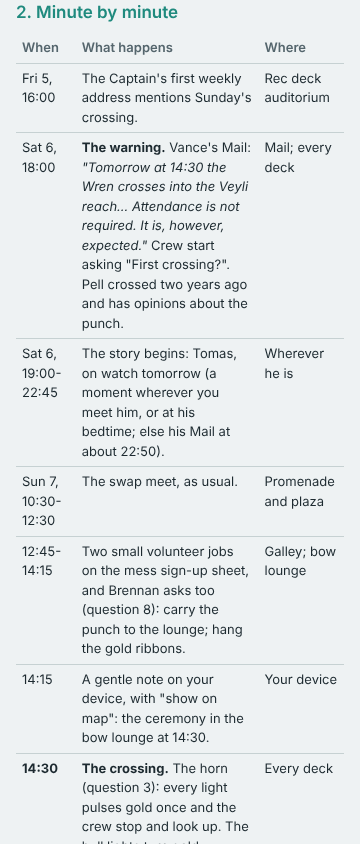
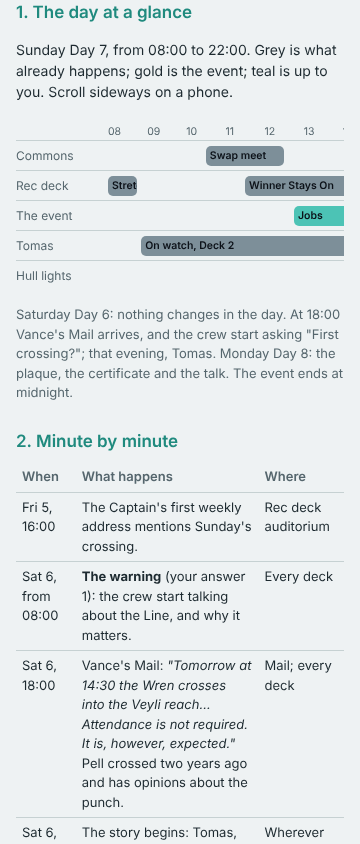
Crossing the Line plan v2.2: the user's answers (02:33: q1 b, Saturday-morning talk, warning [0, 480], Vance's Mail still 18:00; q2-q8 a) marked decided; new section 'Why the crossing matters' (A guests in someone else's sky, recommended; B the edge of the map; C just a custom), where the game says 
Claude-Session: https://claude.ai/code/session_01GpiqZ9jCYbS9XTNPF8adHr

diff --git a/plans/event-line-plan.html b/plans/event-line-plan.html
@@ -66,7 +66,7 @@ blockquote{margin:6px 0;padding:6px 12px;border-left:3px solid var(--gold);font-
 <main>
 <button class="theme" id="theme" aria-label="Switch light or dark">Light / dark</button>
 <h1>Crossing the Line: the plan</h1>
-<div class="sub">Event planner EP2, 2026-10-21, version 2.1: the ceremony moves to the bow lounge, as you asked. It folds in the adversarial reviewer's 12 fixes (ER2) and reworks the story you asked for. Branch <code>claude/event-plan-line</code>, from build 0.64.6. Planning only: the game hasn't changed. The first ship-wide event in the story, built after the ion storm. Your answers go in section 8.</div>
+<div class="sub">Event planner EP2, 2026-10-21, version 2.2: your answers are in, and a new section explains why the crossing matters. The ceremony is in the bow lounge, as you asked. It folds in the adversarial reviewer's 12 fixes (ER2) and reworks the story you asked for. Branch <code>claude/event-plan-line</code>, from build 0.64.6. Planning only: the game hasn't changed. The first ship-wide event in the story, built after the ion storm. Your answers go in section 8.</div>
 
 <div class="card key">
 <b>In short</b>
@@ -77,7 +77,7 @@ blockquote{margin:6px 0;padding:6px 12px;border-left:3px solid var(--gold);font-
 <li><b>The story:</b> Tomas, your bunkmate, is the other newest hand, and he's on watch through the whole crossing. He misses his own Line. You can take him a mug, and that night the crew give him his crossing on Lap of the Wren.</li>
 <li><b>18:00-19:15, the mess:</b> the Line supper takes the Sunday table's place: the dish the crew voted for, plus Brennan's pudding. Up to about 60.</li>
 <li><b>Monday:</b> the plaque with your words, your Line certificate on your shelf, and the crew retelling it all.</li>
-<li><b>About 6 build turns</b>, switched off until you've reviewed it. <b>8 questions</b> for you, each with a recommended answer (section 8). You've already chosen the story.</li>
+<li><b>About 6 build turns</b>, switched off until you've reviewed it. You've answered every question; <b>one new question</b> (number 10, section 8) asks what the crossing means.</li>
 </ul>
 </div>
 
@@ -142,6 +142,38 @@ Then the punch. If you helped carry it up, Brennan has already told you one of i
 <p><b>You chose A</b> (in chat, 01:30). <b>Why it was recommended:</b> it's true to the ship's own rota, a friend wants something he can't have, your answer goes on the plaque in front of everyone, it pays off the same evening, and it still works if you miss the ceremony.</p>
 <p class="sub"><b>Crew react within about 5 ship minutes of the horn,</b> so the first things they say are about the gold pulse, the gold windows and the walk to the lounge (<i>"Did you feel that? The whole deck went gold."</i>). Talk about the punch and your answer waits until the ceremony is over at 15:15.</p>
 
+<h2>Why the crossing matters (new)</h2>
+<p>You asked us to explain why crossing the Line matters. What's already true: the Wren is an unarmed Concord survey ship on a long tour of a frontier shared with the Veyli. Tavessa, dead ahead, is a star cluster the Veyli named, and the Wren was last in the reach two years ago, on a quiet charting run.</p>
+<details open>
+<summary>A. Guests in someone else's sky (recommended)</summary>
+<ul>
+<li><b>What the Line is:</b> where the Concord's charts end and the Veyli reach begins. Past it, every star already has a Veyli name, the Wren travels by the Veyli's leave, and the nearest Concord port is a long way behind.</li>
+<li><b>Why ships mark it:</b> out there you can't call for help and expect it soon, and you're the Concord's face to whoever you meet. So the old oath is a promise to each other: <i>"we did not go alone... we bring each other home."</i></li>
+<li><b>What it means for the Wren:</b> the real work of the tour starts here. Survey charts Tavessa, and everyone aboard, first-timer or not, is a long way from home together.</li>
+<li><b>Why this one:</b> it explains the oath's own words, it matters to the whole crew and not just the first-timers, and it fits a peaceful ship. It also gives the later Veyli events a quiet ground without saying anything about them.</li>
+</ul>
+</details>
+<details>
+<summary>B. The edge of the map</summary>
+<ul><li>Past the Line the Concord's charts are incomplete, and Survey starts the Wren's real job. It's lighter and all about exploration, but it doesn't explain why the oath is about each other.</li></ul>
+</details>
+<details>
+<summary>C. Just an old custom</summary>
+<ul><li>Spacers mark a border the way sailors marked the equator: a rite of passage, a punch and a plaque. It's the "why" you said is missing.</li></ul>
+</details>
+<p><b>Where the game tells you</b> (with A, about 14 lines, all in places you already pass through):</p>
+<div class="scroll"><table>
+<tr><th>Where</th><th>When</th><th>What you hear</th></tr>
+<tr><td>The Captain's Friday address</td><td>Fri 16:00</td><td>Sunday we leave the Concord's charts; past the Line, the stars have other names.</td></tr>
+<tr><td>The crew's chatter</td><td>Sat from the morning</td><td><i>"Past the Line, every star's got a Veyli name already."</i> <i>"Help's a long way off out there. That's what the oath's about."</i></td></tr>
+<tr><td>Vance's Mail</td><td>Sat 18:00</td><td><i>"Beyond it, we travel by the Veyli's leave, on their charts."</i></td></tr>
+<tr><td>Tomas</td><td>Sat evening</td><td><i>"Why does it matter, anyway? It's just a line."</i> You can tell him, or admit you're not sure.</td></tr>
+<tr><td>The Captain, before the oath</td><td>Sun 14:40</td><td><i>"Past this point the stars have other names, and help is a long way off. So we make each other a promise."</i></td></tr>
+<tr><td>Your certificate and the Record</td><td>Sun 15:15</td><td><i>"Crossed into the Veyli reach, where the Wren travels as a guest."</i></td></tr>
+<tr><td>Zeke, at One week aboard</td><td>Sun 17:15</td><td><i>"Your first week, and you're already off the map. Not bad."</i></td></tr>
+</table></div>
+<p class="sub">No spoilers: nothing about the later visit, nothing about Chief Holt's past, and nothing about why the Envoy is aboard. Two small new facts ("the Concord's charts end at the Line", "the nearest port is a long way behind") go into the ship's fact list first.</p>
+
 <h2>1. The day at a glance</h2>
 <p>Sunday Day 7, from 08:00 to 22:00. Grey is what already happens; gold is the event; teal is up to you. Scroll sideways on a phone.</p>
 <div class="scroll"><div class="day" id="day"></div></div>
@@ -151,7 +183,8 @@ Then the punch. If you helped carry it up, Brennan has already told you one of i
 <div class="scroll"><table>
 <tr><th>When</th><th>What happens</th><th>Where</th></tr>
 <tr><td>Fri 5, 16:00</td><td>The Captain's first weekly address mentions Sunday's crossing.</td><td>Rec deck auditorium</td></tr>
-<tr><td>Sat 6, 18:00</td><td><b>The warning.</b> Vance's Mail: <i>"Tomorrow at 14:30 the Wren crosses into the Veyli reach... Attendance is not required. It is, however, expected."</i> Crew start asking "First crossing?". Pell crossed two years ago and has opinions about the punch.</td><td>Mail; every deck</td></tr>
+<tr><td>Sat 6, from 08:00</td><td><b>The warning</b> (your answer 1): the crew start talking about the Line, and why it matters.</td><td>Every deck</td></tr>
+<tr><td>Sat 6, 18:00</td><td>Vance's Mail: <i>"Tomorrow at 14:30 the Wren crosses into the Veyli reach... Attendance is not required. It is, however, expected."</i> Pell crossed two years ago and has opinions about the punch.</td><td>Mail; every deck</td></tr>
 <tr><td>Sat 6, 19:00-22:45</td><td>The story begins: Tomas, on watch tomorrow (a moment wherever you meet him, or at his bedtime; else his Mail at about 22:50).</td><td>Wherever he is</td></tr>
 <tr><td>Sun 7, 10:30-12:30</td><td>The swap meet, as usual.</td><td>Promenade and plaza</td></tr>
 <tr><td>12:45-14:15</td><td>Two small volunteer jobs on the mess sign-up sheet, and Brennan asks too (question 8): carry the punch to the lounge; hang the gold ribbons.</td><td>Galley; bow lounge</td></tr>
@@ -259,8 +292,19 @@ Then the punch. If you helped carry it up, Brennan has already told you one of i
 </ol>
 
 <h2>8. Your answers</h2>
-<p>Pick one option per question (the recommended one is marked), and add a comment if you like. Questions 5 and 7 are new versions, rewritten with the reviewer's true numbers.</p>
+<p>You answered questions 1-9 (thank you). One new question, number 10, follows your comment about why the crossing matters. You can still add a comment to any of them.</p>
 <form id="answers" data-collection="answers" data-doc="event-line-plan" onsubmit="return false">
+
+<div class="q" data-qid="line-q10">
+<h3>10. Why does crossing the Line matter? (new, for your comment)</h3>
+<p class="why">You asked us to explain why the crossing matters. The three meanings are in the section "Why the crossing matters" near the top. Whichever you pick, the writer adds about 14 lines in places you already pass through.</p>
+<fieldset><legend>Question 10</legend>
+<label class="opt"><input type="radio" name="line-q10" value="a"><span>A. Guests in someone else's sky: past the Line the charts and the star names are the Veyli's, the Wren travels by their leave, and help is a long way off. That's why the oath is about going together and bringing each other home<span class="recd">recommended</span></span></label>
+<label class="opt"><input type="radio" name="line-q10" value="b"><span>B. The edge of the map: past the Line the Concord's charts are incomplete, and the Wren's real survey work begins</span></label>
+<label class="opt"><input type="radio" name="line-q10" value="c"><span>C. Just an old custom, like sailors crossing the equator: a rite of passage, and nothing more</span></label>
+</fieldset>
+<label class="cl" for="line-q10-c">Comment</label><textarea id="line-q10-c" name="line-q10-comment"></textarea>
+</div>
 
 <div class="q" data-qid="line-q9">
 <h3>The story: decided</h3>
@@ -270,86 +314,49 @@ Then the punch. If you helped carry it up, Brennan has already told you one of i
 
 <div class="q" data-qid="line-q1">
 <h3>1. When does the ship start talking about it?</h3>
-<p class="why">The event's warning starts the crew's chatter ("First crossing?"). Talk isn't a task, so Saturday stays free either way.</p>
-<fieldset><legend>Question 1</legend>
-<label class="opt"><input type="radio" name="line-q1" value="a"><span>With Vance's Mail on Saturday at 18:00 (and the Captain's mention at Friday's address)<span class="recd">recommended</span></span></label>
-<label class="opt"><input type="radio" name="line-q1" value="b"><span>From Saturday morning (the Mail still at 18:00)</span></label>
-<label class="opt"><input type="radio" name="line-q1" value="c"><span>From Friday's new-hands tea (Friday 18:40)</span></label>
-</fieldset>
+<p class="why"><b>Your answer (02:33): b.</b> From Saturday morning; Vance's Mail still at 18:00</p>
 <label class="cl" for="line-q1-c">Comment</label><textarea id="line-q1-c" name="line-q1-comment"></textarea>
 </div>
 
 <div class="q" data-qid="line-q2">
 <h3>2. What do the gold hull lights look like?</h3>
-<p class="why">Today the hull lights are only words (the hull-lights evening changes nothing on screen). This is new.</p>
-<fieldset><legend>Question 2</legend>
-<label class="opt"><input type="radio" name="line-q2" value="a"><span>A warm gold in every window, and slightly warmer light indoors, 14:30-19:15<span class="recd">recommended</span></span></label>
-<label class="opt"><input type="radio" name="line-q2" value="b"><span>The windows only</span></label>
-<label class="opt"><input type="radio" name="line-q2" value="c"><span>As the first, plus gold light strips along the promenade (a few more draw calls on phones)</span></label>
-</fieldset>
+<p class="why"><b>Your answer (02:33): a.</b> A warm gold in every window, and slightly warmer light indoors, 14:30-19:15</p>
 <label class="cl" for="line-q2-c">Comment</label><textarea id="line-q2-c" name="line-q2-comment"></textarea>
 </div>
 
 <div class="q" data-qid="line-q3">
 <h3>3. The horn: the game has no sound at all</h3>
-<p class="why">So "the horn sounds on every deck" has to be something you see.</p>
-<fieldset><legend>Question 3</legend>
-<label class="opt"><input type="radio" name="line-q3" value="a"><span>A felt moment: every light pulses gold once, the crew stop and look up, and a one-line notice says the horn sounds<span class="recd">recommended</span></span></label>
-<label class="opt"><input type="radio" name="line-q3" value="b"><span>That, plus the game's first sound: one horn note (new work: a mute switch, and phones on silent)</span></label>
-<label class="opt"><input type="radio" name="line-q3" value="c"><span>Just the Captain's banner</span></label>
-</fieldset>
+<p class="why"><b>Your answer (02:33): a.</b> A felt moment: every light pulses gold once, the crew stop and look up, and a one-line notice says the horn sounds</p>
 <label class="cl" for="line-q3-c">Comment</label><textarea id="line-q3-c" name="line-q3-comment"></textarea>
 </div>
 
 <div class="q" data-qid="line-q4">
 <h3>4. The Line supper</h3>
-<p class="why">It takes the Sunday table's place. The Sunday dish is the crew's vote (fish and chips, in a new game), so the writer's "proper roast" lines change to fit any dish.</p>
-<fieldset><legend>Question 4</legend>
-<label class="opt"><input type="radio" name="line-q4" value="a"><span>The Sunday table re-dressed for the day: the crew's voted dish plus Brennan's pudding, renamed, 18:00-19:15, up to about 60<span class="recd">recommended</span></span></label>
-<label class="opt"><input type="radio" name="line-q4" value="b"><span>A set Line dinner in place of the vote (changes the galley's menu board and vote)</span></label>
-</fieldset>
+<p class="why"><b>Your answer (02:33): a.</b> The Sunday table re-dressed for the day: the crew's voted dish plus Brennan's pudding, renamed, 18:00-19:15, up to about 60</p>
 <label class="cl" for="line-q4-c">Comment</label><textarea id="line-q4-c" name="line-q4-comment"></textarea>
 </div>
 
 <div class="q" data-qid="line-q5">
 <h3>5. Who stands at the front as first-timers? (new version)</h3>
-<p class="why">The reviewer counted the real roster: only Tomas has been aboard under two weeks, and only 4 crew under six months (2 of them free at 14:30). So the first version's numbers were wrong.</p>
-<fieldset><legend>Question 5</legend>
-<label class="opt"><input type="radio" name="line-q5" value="a"><span>Everyone aboard under two years, with a new fact: "the Wren was last in the reach two years ago, on a quiet charting run" (21 crew; about 8 free at 14:30, more if the day shift stands easy)<span class="recd">recommended</span></span></label>
-<label class="opt"><input type="radio" name="line-q5" value="b"><span>Everyone aboard under six months (4 crew, 2 of them there)</span></label>
-<label class="opt"><input type="radio" name="line-q5" value="c"><span>Only you; everyone else watches</span></label>
-</fieldset>
+<p class="why"><b>Your answer (02:33): a.</b> Everyone aboard under two years, with a new fact: "the Wren was last in the reach two years ago, on a quiet charting run" (21 crew; about 8 free at 14:30, more if the day shift stands easy)</p>
 <label class="cl" for="line-q5-c">Comment</label><textarea id="line-q5-c" name="line-q5-comment"></textarea>
 </div>
 
 <div class="q" data-qid="line-q6">
 <h3>6. If you miss the ceremony</h3>
-<p class="why">You might be asleep, on the rec deck, or just elsewhere. Sitting things out is always fine.</p>
-<fieldset><legend>Question 6</legend>
-<label class="opt"><input type="radio" name="line-q6" value="a"><span>You still crossed: the gist by Mail and the certificate anyway (a first-timer's plain line goes on the plaque), and Brennan saves you a mug of punch at supper ("Nobody escapes the punch.")<span class="recd">recommended</span></span></label>
-<label class="opt"><input type="radio" name="line-q6" value="b"><span>The gist by Mail and the certificate, nothing more</span></label>
-<label class="opt"><input type="radio" name="line-q6" value="c"><span>The certificate only if you were there</span></label>
-</fieldset>
+<p class="why"><b>Your answer (02:33): a.</b> You still crossed: the gist by Mail and the certificate anyway (a first-timer's plain line goes on the plaque), and Brennan saves you a mug of punch at supper ("Nobody escapes the punch.")</p>
 <label class="cl" for="line-q6-c">Comment</label><textarea id="line-q6-c" name="line-q6-comment"></textarea>
 </div>
 
 <div class="q" data-qid="line-q7">
 <h3>7. Does the day shift step out for the ceremony? (new version)</h3>
-<p class="why">This replaces the Winner Stays On question: that game holds only 3 crew at 14:30. What keeps the crowd small is the 25 crew at work.</p>
-<fieldset><legend>Question 7</legend>
-<label class="opt"><input type="radio" name="line-q7" value="a"><span>Yes, 14:30-15:15: everyone at a post that can wait stands easy, except the bridge, the watch and the galley line (about 50-60 at the ceremony)<span class="recd">recommended</span></span></label>
-<label class="opt"><input type="radio" name="line-q7" value="b"><span>No, only off-duty crew come (about 35-45)</span></label>
-</fieldset>
+<p class="why"><b>Your answer (02:33): a.</b> Yes, 14:30-15:15: everyone at a post that can wait stands easy, except the bridge, the watch and the galley line (about 50-60 at the ceremony)</p>
 <label class="cl" for="line-q7-c">Comment</label><textarea id="line-q7-c" name="line-q7-comment"></textarea>
 </div>
 
 <div class="q" data-qid="line-q8">
 <h3>8. Something to do beforehand?</h3>
-<p class="why">The storm has prep jobs. This event has no score, so these would just be for fun.</p>
-<fieldset><legend>Question 8</legend>
-<label class="opt"><input type="radio" name="line-q8" value="a"><span>Two small volunteer jobs on Sunday 12:45-14:15, on the mess sign-up sheet: carry the punch up with Brennan, hang the gold ribbons. Never scored<span class="recd">recommended</span></span></label>
-<label class="opt"><input type="radio" name="line-q8" value="b"><span>None; you just turn up</span></label>
-</fieldset>
+<p class="why"><b>Your answer (02:33): a.</b> Two small volunteer jobs on Sunday 12:45-14:15, on the mess sign-up sheet: carry the punch up with Brennan, hang the gold ribbons. Never scored</p>
 <label class="cl" for="line-q8-c">Comment</label><textarea id="line-q8-c" name="line-q8-comment"></textarea>
 </div>
 

diff --git a/plans/event-line-plan.md b/plans/event-line-plan.md
@@ -1,4 +1,4 @@
-# Crossing the Line: the event plan (version 2.1: the ceremony in the bow lounge)
+# Crossing the Line: the event plan (version 2.2: the user's answers; why the crossing matters)
 
 Event planner EP2 (session_01GpiqZ9jCYbS9XTNPF8adHr), 2026-10-21. Branch `claude/event-plan-line`, from claude/integration 0.64.6 (675588c). Reports to lead 22 (session_01BGQCZLK6gYTnqu6mwZ61jB). **Planning only: the game is unchanged.**
 
@@ -129,7 +129,8 @@ Crew react to an event moment **within about 5 ship minutes**, so `cue:event.cro
 | When | What | Where | The piece |
 | --- | --- | --- | --- |
 | Fri 5, 16:00 | The Captain's first weekly address mentions Sunday's crossing | rec deck auditorium | Fridays plan, `friday-d5.address` (needs `SHORT_FRIDAY`) |
-| Sat 6, 18:00 | **Warning** begins: Vance's Mail "Tomorrow we cross the Line"; crew ask "First crossing?" (Pell: he crossed two years ago; Holt's one line) | Mail, every deck | F2 phase note, cue `event.crossingLine.warning` |
+| Sat 6, 08:00 | **Warning** begins (the user's q1 = b): crew start talking about the Line from Saturday morning, "First crossing?" and why it matters (Pell crossed two years ago; Holt's one line). Talk only, so your free day stays free | every deck | F2 phase note, cue `event.crossingLine.warning` |
+| Sat 6, 18:00 | Vance's Mail "Tomorrow we cross the Line" (at a fixed minute, like the storm's debrief) | Mail | `mail.warning` at `[0, 1080]` |
 | Sat 6, 19:00-22:46 | Story A begins: Tomas, on watch tomorrow (a moment wherever he is: the mess, the garden, the rec deck, or Bunk 1 at bedtime; else his Mail at about 22:50) | Deck 3, rec deck, Deck 4 | 20c moment |
 | Sun 7, 10:30-12:30 | The swap meet, as usual | promenade, plaza | (unchanged) |
 | 12:45-14:15 | Two small volunteer jobs on the mess sign-up sheet (Brennan offers them too): carry the punch from the galley to the lounge; hang gold ribbons in the lounge | galley, bow lounge | event `jobs` (17), `DECK_DRESS.signupMess` |
@@ -148,7 +149,7 @@ Crew react to an event moment **within about 5 ship minutes**, so `cue:event.cro
 | **20:30-21:15** | **Lap of the Wren**, Tomas at the front; the old hands give him the oath's last line at the bow turn, by the lounge doorway | promenade | Lap re-dressed on Day 7, 20c moment |
 | Mon 8 | The afterglow: the plaque quoted back, the worst face retold; status line "First day in the Veyli reach"; the event ends at midnight | every deck | cue `event.crossingLine.afterglow` |
 
-**The phases:** `warning [0, 1080]`, `onset [1, 870]`, `resolution [1, 915]`, `afterglow [1, 1155]` (clears), `days: 3`. `eventDay` is true on Day 7 only. No phase pauses a tradition.
+**The phases:** `warning [0, 480]` (Saturday 08:00, the user's q1; Vance's Mail stays at 18:00, `[0, 1080]`), `onset [1, 870]`, `resolution [1, 915]`, `afterglow [1, 1155]` (clears), `days: 3`. `eventDay` is true on Day 7 only. No phase pauses a tradition.
 
 ## What you can do
 - **Saturday night:** keep Tomas company; promise him punch.
@@ -283,7 +284,56 @@ The build number is the build master's.
 10. **Reactions within about 5 ship minutes of the horn:** the onset lines must not mention the punch or the answer.
 11. **Tomas's day must be as the plan says** (ER2's S2 and S4, in the new shape): at his post (`2-watch-6`) 08:51-17:00 and never pulled away, reachable for the mug, and on the Lap at 20:30 (`EV_DAY_DRESS` brings him); bigevents_check shows all three. His post is a standing watch post in Deck 2's lift lobby (ER2's R2-2); the mug stop finds him from his plan. Tomas must be at his post, not on his break, when you bring the mug (15:15-17:00): day_check Day 7.
 
-## Questions for the user (each with a recommended answer; ids `line-q1` to `line-q9`, plus `line-general`)
+## Decided (the user, 02:33 UTC, via lead 22)
+- **line-q9, the story:** A, "The one on watch" (decided in chat at 01:30).
+- **line-q1:** **b**. The crew start talking from Saturday morning, and Vance's Mail still comes at 18:00. The warning phase starts at `[0, 480]`.
+- **line-q2 to line-q8:** all **a**, as recommended:
+  - q2: the gold is a warm gold in the windows and slightly warmer light indoors;
+  - q3: the horn is a gold pulse, the crew look up, and a one-line notice;
+  - q4: the Sunday table re-dressed, with the voted dish plus a pudding;
+  - q5: first-timers are everyone aboard under two years;
+  - q6: if you miss it, you still crossed, and Brennan saves you a mug;
+  - q7: the day shift stands easy 14:30-15:15;
+  - q8: two volunteer jobs on the mess sheet.
+- **The ceremony is in the bow lounge** (the user, 01:42).
+- **The user's comment:** "We really need to come up with and explain and talk about why it matters to cross." See "Why the crossing matters" below, and question line-q10.
+
+## Why the crossing matters (new, for the user's comment; question line-q10)
+What's already true (content/facts.md):
+- The Wren is a Concord survey ship, unarmed, on a long tour of a frontier shared with the Veyli.
+- Tavessa, dead ahead past the Line, is "a star cluster the Veyli named".
+- The Wren was last in the reach two years ago, on a quiet charting run.
+
+Three ways to give the Line its meaning:
+
+- **A (recommended): "Guests in someone else's sky."**
+  - **What it is:** the Line is where the Concord's charts end and the Veyli reach begins. Past it, every star already has a Veyli name, the Wren travels by the Veyli's leave, and the nearest Concord port is a long way behind.
+  - **Why ships mark it:** you can't call for help and expect it soon, and you're the Concord's face to whoever you meet. So the old oath is a promise to each other: "we did not go alone", "we bring each other home".
+  - **For the Wren:** the real work of the tour starts here. Survey charts Tavessa, and everyone, first-timer or not, is a long way from home together.
+  - **Why A:** it explains the oath's words. It makes the day matter to every crew member, not just the first-timers. It fits a peaceful, unarmed ship, and it gives the later Veyli events a quiet ground without saying anything about them.
+- **B: "The edge of the map."** The Line is where the Concord's charts stop being complete. Past it, Survey charts what nobody has charted properly, and the Wren starts her real job. It's lighter and all about exploration. Weaker: it doesn't explain why the oath is about each other.
+- **C: "Just an old custom."** Spacers have always marked a border, like sailors crossing the equator. It's a rite of passage, a punch and a plaque, and nothing more. Weaker: it's what the user said is missing.
+
+**Where the game explains it** (A; about 14 lines in all, all in places the player already passes through; EW1 writes them):
+| Where | When | What it says | Lines |
+| --- | --- | --- | --- |
+| The Captain's Friday address (Day 5) | Fri 16:00 | Sunday we leave the Concord's charts; past the Line, the stars have other names | 2 |
+| Saturday-morning chatter (q1 = b) | Sat from 08:00 | old hands explain in bits: "Past the Line, every star's got a Veyli name already.", "Help's a long way off out there. That's what the oath's about.", "Survey's been waiting months for this." | 5 |
+| Vance's Mail | Sat 18:00 | one sentence added: "Beyond it, we travel by the Veyli's leave, on their charts." | 1 |
+| Tomas on Saturday evening | Sat evening | he asks you, "Why does it matter, anyway? It's just a line." You can answer, or say you're not sure (Pell told him "guests") | 2 |
+| The oath's preface | Sun 14:40 | the Captain, before she reads: "Past this point the stars have other names, and help is a long way off. So we make each other a promise." | 2 |
+| The certificate and the Record | Sun 15:15 | "Crossed into the Veyli reach, where the Wren travels as a guest." | 1 |
+| Zeke at One week aboard | Sun 17:15 | "Your first week, and you're already off the map. Not bad." | 1 |
+
+**Spoiler and canon checks:**
+- **The visit:** nothing about a delegation, a meeting or anyone coming aboard. "Guests" is the Wren's side only.
+- **Holt:** nothing about his border day. His one line stays about the here and now, and nobody links the Line to "last time" (the two-years fact stays "a quiet charting run").
+- **The Envoy:** nothing about why Envoy Saruth is aboard (their card says "until close"). The meaning never names the Envoy or an agreement, only "the Veyli's leave".
+- **Facts first:** two new facts go into content/facts.md through the head writer before any line uses them: "the Concord's charts end at the Line" and "the nearest Concord port is a long way behind".
+- **Unarmed ship:** no danger talk. "Help is a long way off" is about distance, not threat.
+- **Cost:** about 14 lines, inside the story turn (L4) and L1's bake. No new code.
+
+## Questions for the user (answered 02:33 except line-q10; the record of what was asked)
 - **line-q9, the story: DECIDED (the user, in chat, 01:30 UTC): A**, Tomas stays on watch and gets his crossing on the Lap. It was recommended: A, "The one on watch" (Tomas misses his own crossing; your answer goes on the plaque; his crossing on the Lap that night). Others: A2, the same but Tomas comes (a Watch hand covers his post; smaller story, no Lap payoff); B, "What's in the punch?"; C, "The Line roll". A changes v3.2's "one reply (proud, nervous, joking)".
 1. **When does the ship start talking about it?** Recommended: with Vance's Mail on Saturday at 18:00 (and the Captain's mention at Friday's address). Others: Saturday morning (talk only, so your free day stays free); Friday's new-hands tea.
 2. **What do the gold hull lights look like?** Recommended: a warm gold in every window and slightly warmer light indoors, 14:30-19:15. Others: windows only; also gold light strips along the promenade (a few more draw calls).
